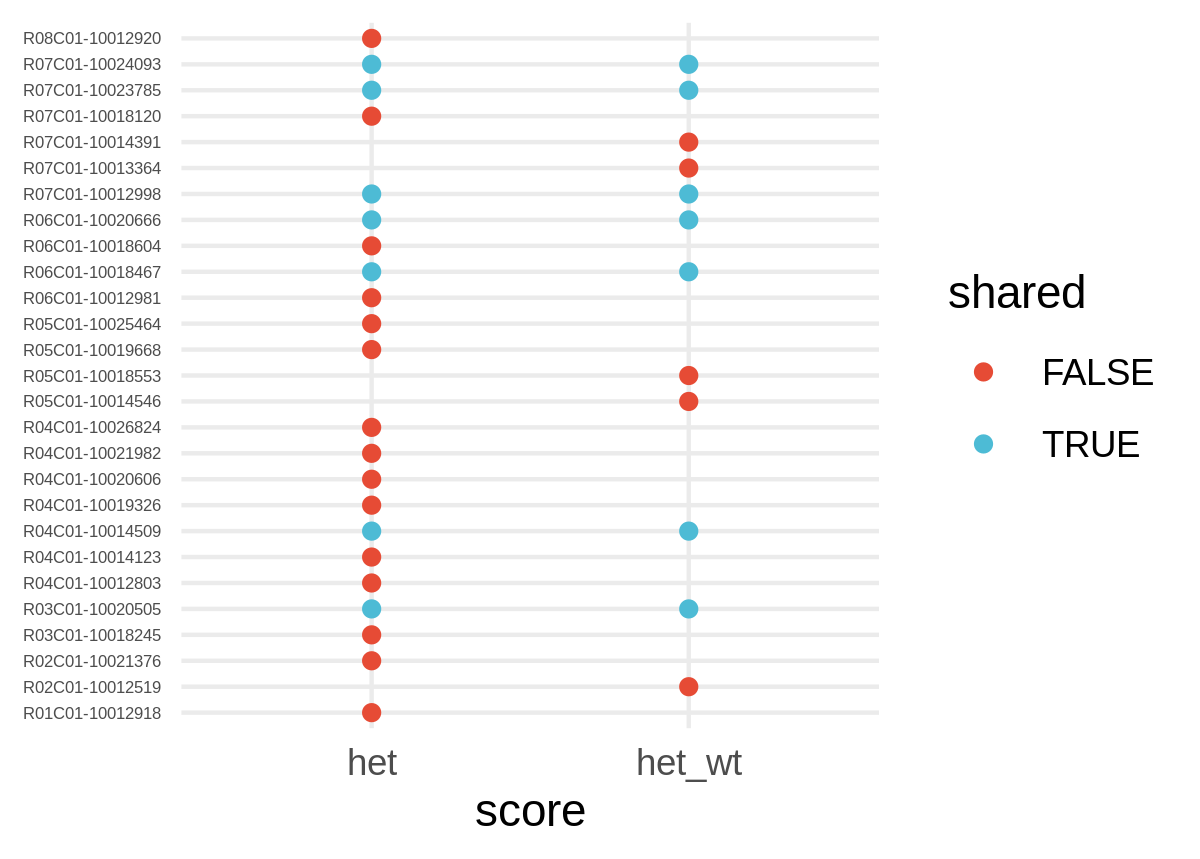
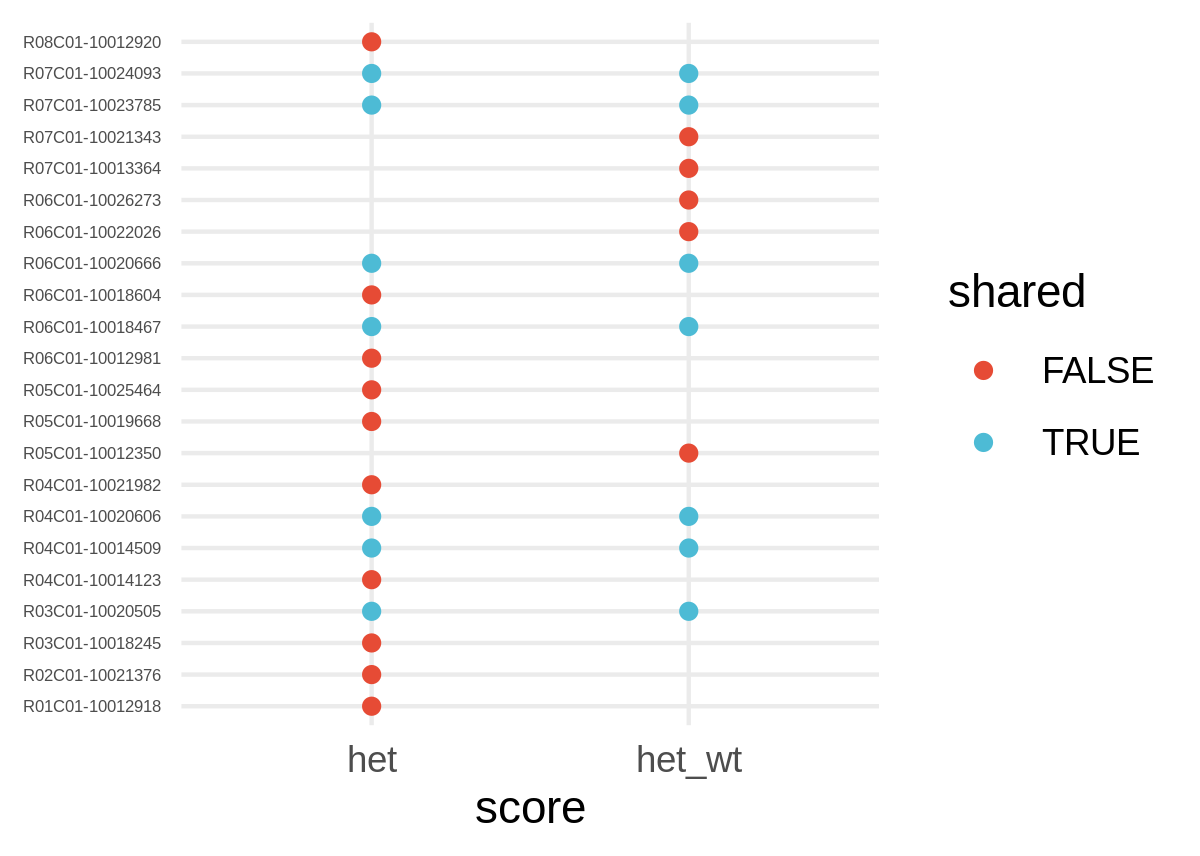
include plots for heterozygosity scors

diff --git a/README.md b/README.md
@@ -161,6 +161,8 @@ resting or test condition.
 
 ### 2.4. Results
 
+#### Ancestry information from genotype data
+
 The PCA plot shows the MGB individuals in comparison with the 1000
 Genomes data. We can see that individuals are distributed according to
 the 5 main continental groups.
@@ -217,3 +219,25 @@ individuals.
 <img src="./plots/admixture_mgb_k3.png" width="2553" />
 
 Therefore, I’ve decided for now to stick with the selection by PCA.
+
+#### SLE variants
+
+I’ve selected 90 SLE risk variants from the [Langefeld et
+al. study](nature.com/articles/ncomms16021), by taking all variants
+identified in individuals of European ancestry with FDR &lt;= 0.01.
+
+Then, I computed a heterozygosity score that corresponds to the number
+of variants at which the individuals are heterozygotes. I also computed
+a weighted score that is simply the number of alleles times the log(OR),
+summed over all variants. Since the number of alleles for heterozygotes
+is equal to 1, that corresponds to simply summing the log(OR) over all
+SLE SNPs.
+
+This is the relationship between the two scores:
+
+<img src="./plots/het_scores_jitterplot.png" width="2400" />
+
+If we select the individuals who have the most extreme values at each
+score, we would end up selecting different individuals.
+
+<img src="./plots/het_score.png" width="1200" />
